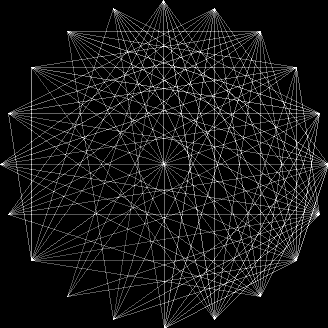
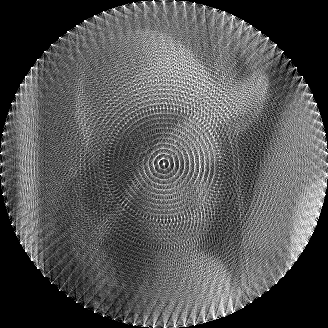
feat: added subset selection and sparse implementation
This implementation is faster but still lacking efficiency. A user would have to wait quite some time to get back a good enough response.

diff --git a/stringart/solver.py b/stringart/solver.py
@@ -7,6 +7,7 @@ from scipy.sparse.linalg import lsqr
 
 from stringart.line_algorithms.matrix import MatrixGenerator
 from stringart.utils.circle import compute_pegs
+from stringart.utils.greedy_selector import DotProductSelector, GreedySelector, RandomSelector, Selector
 from stringart.utils.image import ImageWrapper, crop_image, find_radius_and_center_point
 from stringart.utils.types import Method, Mode, Point
 
@@ -20,9 +21,11 @@ class Solver:
         An object representing the image to be processed.
     image_mode : Mode
         The mode in which the image is being processed. This determines cropping behaviour.
+    number_of_pegs : int, optional
+        The number of pegs to be used in the string art computation. Default is 100.
     """
 
-    # TODO: add docstring number_of_pegs
+    __greedy_map_selector: dict[str, type[Selector]] = {"random": RandomSelector, "dot-product": DotProductSelector}
 
     def __init__(self, image: ImageWrapper, image_mode: Mode, number_of_pegs: int = 100):
         self.shape: tuple[int, ...] = image.get_shape()
@@ -31,6 +34,23 @@ class Solver:
         self.number_of_pegs: int = number_of_pegs
 
     def compute_solution(self, A: np.ndarray, x: np.ndarray) -> np.ndarray:
+        """Computes the solution image for the string art procedure.
+
+        Parameters
+        ----------
+        A : np.ndarray
+           The transformation matrix used to generate the solution.
+        x : np.ndarray
+           The input vector representing the parameters of the transformation.
+
+        Returns
+        -------
+        np.ndarray
+           The processed solution image. The image is clipped to values between
+           0 and 1, scaled to 255, converted to an 8-bit format, and cropped
+           according to the specified image mode.
+        """
+
         solution = A @ x
         solution = np.clip(np.reshape(solution, shape=self.shape), a_min=0, a_max=1)
         solution = np.multiply(solution, 255).astype(np.uint8)
@@ -65,7 +85,36 @@ class Solver:
 
         return self.compute_solution(A, x)
 
-    def greedy(self, number_of_lines: int) -> np.ndarray:
+    def greedy(self, number_of_lines: int, selector_type: GreedySelector = "random") -> np.ndarray:
+        """Performs a greedy algorithm to select the best lines from the candidate lines matrix,
+        iteratively adding the top-k candidates to minimize the residual error with respect to
+        the target vector `b`.
+
+        Parameters
+        ----------
+        number_of_lines : int
+           The number of lines to select and add to the solution.
+
+        selector_type : GreedySelector, optional
+           The type of selector to use for candidate selection.
+           Can be either "random" or "dot-product". Default is "random".
+
+        Returns
+        -------
+        np.ndarray
+           The final solution vector `x` after the greedy line selection process.
+
+        Notes
+        -----
+        The algorithm will stop early if no improvement is found in the residual between steps.
+        It relies on a sparse matrix of candidate lines and uses the `lsqr` solver to solve the
+        least squares problem at each step.
+
+        The greedy approach iterates through the candidate lines, selecting the best candidates
+        based on their dot product with the target vector `b` (or randomly, depending on the
+        selector type) and minimizes the residual error in the least squares problem.
+        """
+
         radius, center_point = find_radius_and_center_point(self.shape, self.image_mode)
         pegs: List[Point] = compute_pegs(
             number_of_pegs=self.number_of_pegs,
@@ -76,6 +125,8 @@ class Solver:
         candidate_lines = csr_matrix(MatrixGenerator.generate_dense_matrix(self.shape, pegs))
         rows, cols = candidate_lines.shape
         best_lines: set[int] = set()
+        all_line_indices = set(range(cols))
+        past_residual = np.inf
 
         A = csr_matrix((rows, 0))
         x = None
@@ -84,8 +135,16 @@ class Solver:
             best_index = -1
             best_residual = np.inf
 
-            for column_index in range(cols):
-                # check if we already included the line
+            # exclude already selected lines
+            remaining_lines_indices = all_line_indices - best_lines
+            remaining_candidate_lines = candidate_lines[:, list(remaining_lines_indices)]
+
+            # initialize selector
+            selector = Solver.__greedy_map_selector[selector_type](remaining_candidate_lines, self.b)
+            top_candidates = selector.get_top_k_candidates()
+
+            for column_index in top_candidates:
+                # check if we already included the line; TODO: might be redundant with the remaining_candidate logic
                 if column_index in best_lines:
                     continue
 
@@ -99,6 +158,7 @@ class Solver:
                     best_index = column_index
                     best_residual = residual
 
+            # if no line was found to be drawn
             if best_index == -1:
                 break
 
@@ -106,5 +166,10 @@ class Solver:
             best_column = candidate_lines[:, best_index]
             A = hstack([A, best_column])
             x = lsqr(A, self.b)[0]
+
+            # if the error does not decrease
+            residual = np.linalg.norm(self.b - A @ x)
+            if not residual <= past_residual:
+                break
 
         return self.compute_solution(A, x)

diff --git a/stringart/utils/greedy_selector.py b/stringart/utils/greedy_selector.py
@@ -1,0 +1,94 @@
+from abc import ABC, abstractmethod
+from typing import Literal
+
+import numpy as np
+from scipy.sparse import csr_matrix
+
+GreedySelector = Literal["random", "dot-product"]
+
+
+class Selector(ABC):
+    """Abstract base class for selecting top-k candidate lines based on a given matrix `A` and target vector `b`.
+
+    Attributes
+    ----------
+    A : csr_matrix
+        A sparse matrix representing candidate lines.
+    b : np.ndarray
+        A vector representing the target values.
+    rows : int
+        The number of rows in matrix `A`.
+    cols : int
+        The number of columns in matrix `A`.
+    top_k : int
+        The number of top candidates to select, based on `TOP_K_PERCENT`.
+
+    Methods
+    -------
+    get_top_k_candidates()
+        Abstract method for selecting the top-k candidate indices based on a certain heuristic.
+    """
+
+    TOP_K_PERCENT: float = 0.25
+
+    def __init__(self, A: csr_matrix, b: np.ndarray):
+        self.A = A
+        self.b = b
+        self.rows, self.cols = A.shape
+        self.top_k = int(self.cols * Selector.TOP_K_PERCENT)
+
+    @abstractmethod
+    def get_top_k_candidates(self):
+        """Selects the top-k candidate indices based on a certain heuristic.
+
+        This method should be implemented in subclasses to define how the candidates are selected.
+
+        Returns
+        -------
+        np.ndarray
+            An array containing the indices of the top-k selected candidates.
+        """
+        pass
+
+
+class RandomSelector(Selector):
+    """Selects top-k candidates randomly from the matrix `A`."""
+
+    def get_top_k_candidates(self):
+        """Randomly selects the top-k candidate indices from the matrix `A`.
+
+        Returns
+        -------
+        np.ndarray
+           An array containing the indices of the randomly selected top-k candidates.
+        """
+        random_indices = np.random.choice(self.cols, self.top_k, replace=False)
+        return random_indices
+
+
+class DotProductSelector(Selector):
+    """Selects top-k candidates based on the dot product between the columns of matrix `A` and the target vector `b`.
+
+    Attributes
+    ----------
+    dot_products : np.ndarray
+        An array containing the dot products between the columns of `A` and the vector `b`.
+    """
+
+    def __init__(self, A: csr_matrix, b: np.ndarray):
+        super().__init__(A, b)
+        self.dot_products = A.T @ b
+
+    def get_top_k_candidates(self):
+        """Selects the top-k candidate indices based on the highest absolute dot products between the columns of `A` and `b`.
+
+        Returns
+        -------
+        np.ndarray
+            An array containing the indices of the top-k candidates with the highest dot products.
+        """
+
+        candidate_indices = np.argsort(-np.abs(self.dot_products))
+        top_candidates = candidate_indices[: self.top_k]
+
+        return top_candidates

diff --git a/stringart/main.py b/stringart/main.py
@@ -19,10 +19,13 @@ def main() -> None:
     image.read_bw(metadata.path / "imgs/lena.png")
     mode: Mode = "center"
 
-    solver = Solver(image, mode, number_of_pegs=20)
-    solution = solver.greedy(100)
+    # solver = Solver(image, mode, number_of_pegs=100)
+    # solution = solver.least_squares("sparse")
 
-    io.imsave(metadata.path / "outputs/lena_stringart_sparse.png", solution)
+    solver = Solver(image, mode, number_of_pegs=20)
+    solution = solver.greedy(number_of_lines=100, selector_type="random")
+
+    io.imsave(metadata.path / "outputs/lena_stringart_greedy.png", solution)
     io.imshow(solution)
     plt.show()
 
